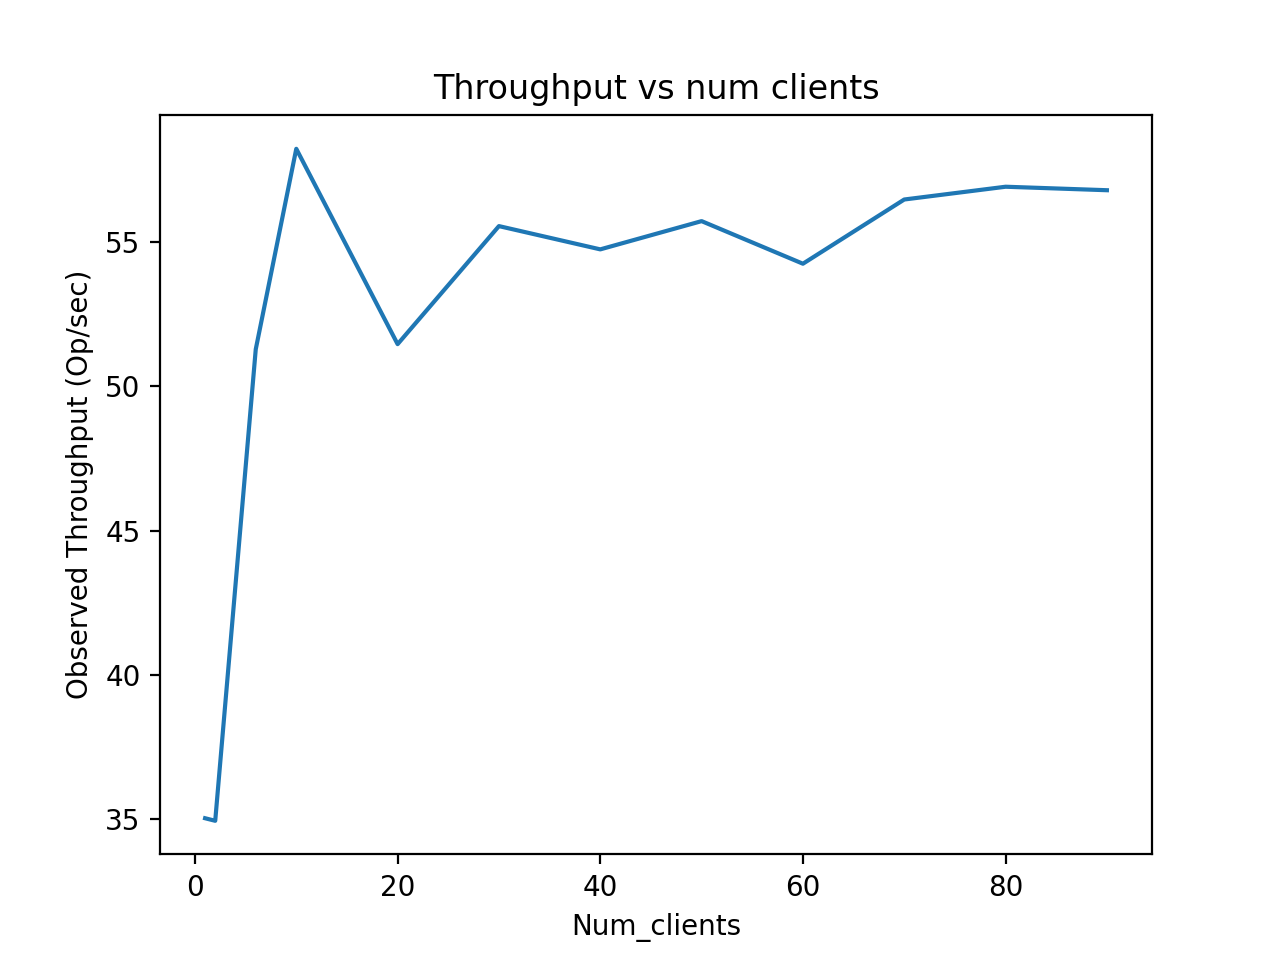
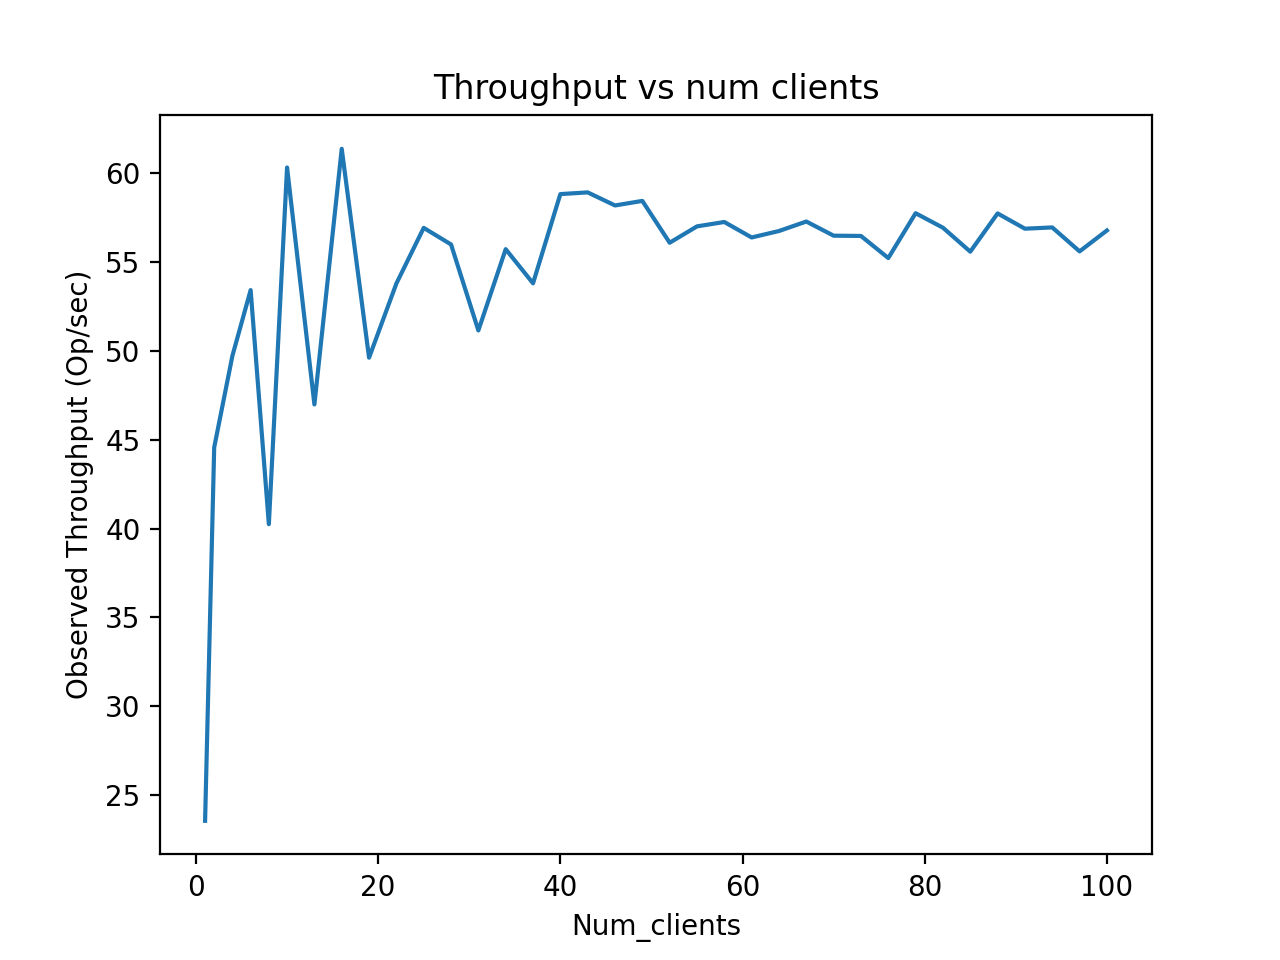
plots

diff --git a/client/measure_perf.py b/client/measure_perf.py
@@ -30,8 +30,8 @@ def measure_get(key):
 def run_put_exp():
     latencies, batch_throughputs = [], []
 
-    points = [1, 2, 6]
-    points.extend([i for i in range(10, 100, 10)])
+    points = [1, 2, 4, 6,8]
+    points.extend([i for i in range(10, 101, 3)])
     for thread_count in points:
         batch = []
         print(f"Collecting PUT stats with {thread_count} threads")
@@ -56,7 +56,7 @@ def run_get_exp():
     latencies, batch_throughputs = [], []
 
     points = [1, 2, 3, 4, 6, 8]
-    points.extend([i for i in range(10, 100, 10)])
+    points.extend([i for i in range(10, 100, 3)])
     # points.extend([i for i in range(100, 201, 20)]) 
     for thread_count in points:
         batch = []
@@ -80,7 +80,7 @@ def run_get_exp():
 def collect_stats(run_exp, NUM_SERVERS=3):
     throughputs, latencies = [], []
     x_range = []
-    for i in range(3):
+    for i in range(10):
         x_range, thrp, lat = run_exp()
         throughputs.append(thrp)
         latencies.append(lat)

diff --git a/server/raft/dur_log_manager.py b/server/raft/dur_log_manager.py
@@ -72,7 +72,7 @@ class DurLogManager:
         with self.lock:
             log_me(f"Adding {log_entry.request_type} Entry to Durability Log")
             self.entries.append(log_entry)
-            self.flush_log_to_disk()
+            # self.flush_log_to_disk()
 
     # Returns entry at head of queue without removing it from the queue
     def peek_head_entry(self):
@@ -96,6 +96,7 @@ class DurLogManager:
             log_file[str(log_file["SHELF_SIZE"])] = self.entries[-1]
             log_file["SHELF_SIZE"] += 1
         log_file.close()
+        return "just testing"
 
         # with open(RAFT_LOG_PATH, 'wb') as file:
         #     pickle.dump(self.entries, file)
